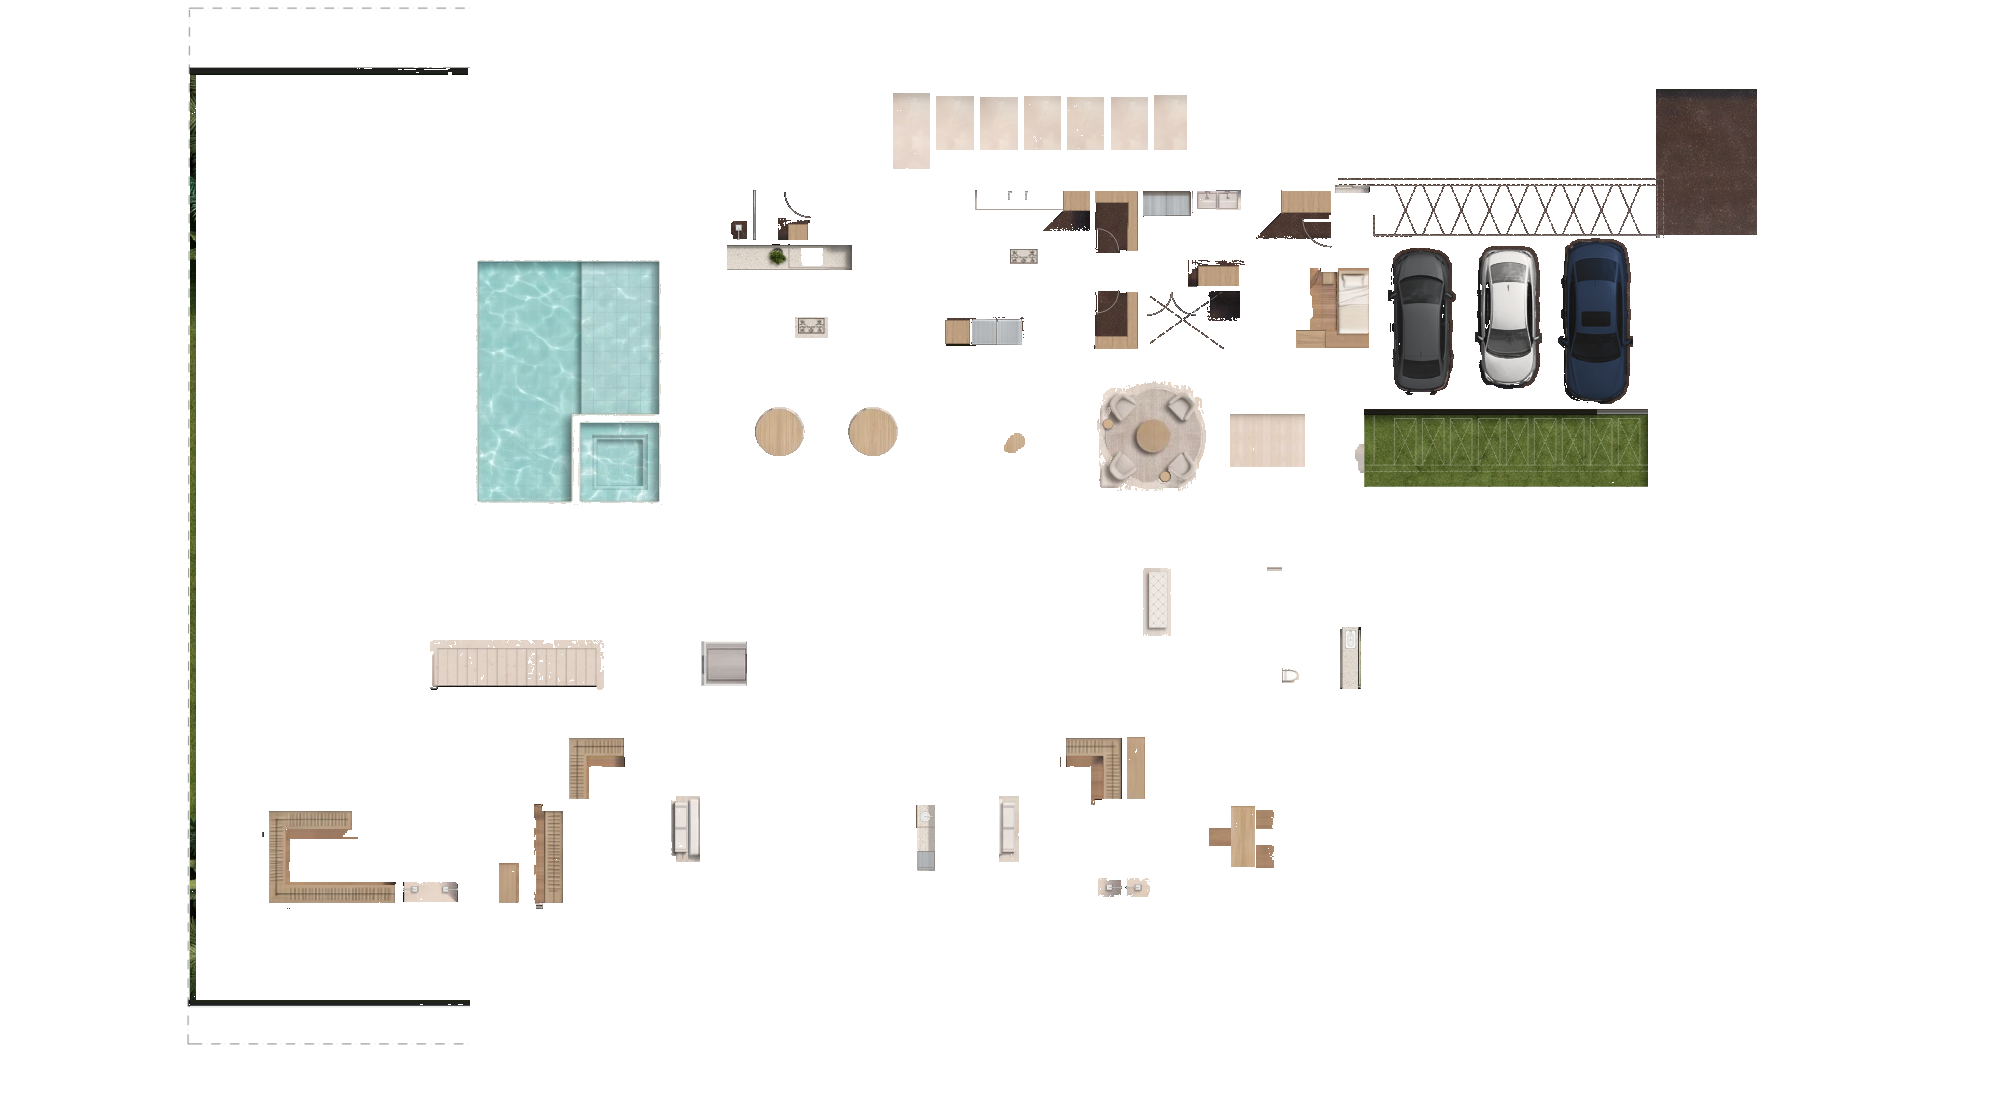
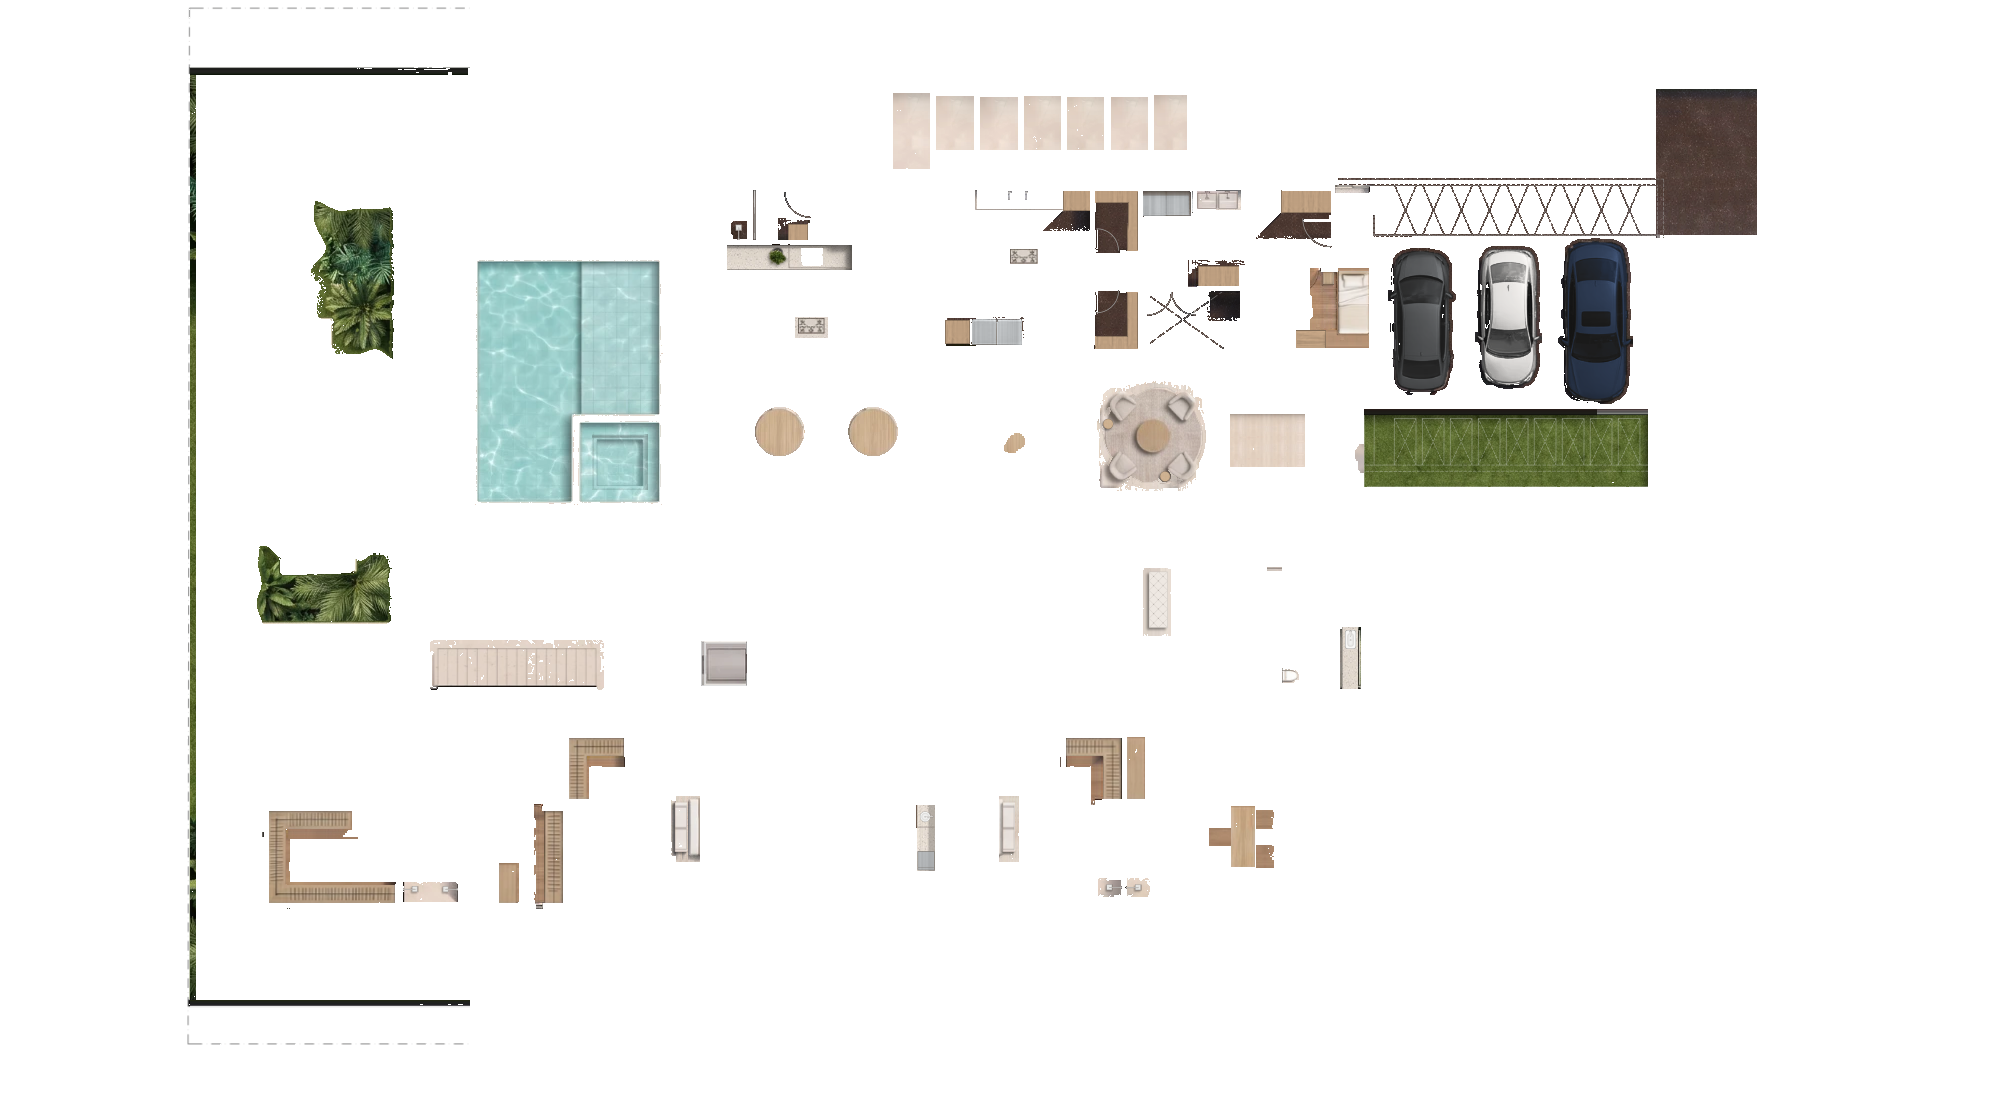
Casa D: paisagismo nos gramados junto à escada da piscina
Claude-Session: https://claude.ai/code/session_01Mm19WX3KoLN1nXMDF5Ay3F

Changed region(s): [[0.155, 0.1828, 0.217, 0.3351], [0.124, 0.4875, 0.217, 0.5789]]

diff --git a/projetos/POE642_CasaA/scripts/retoque_terreo_casad.py b/projetos/POE642_CasaA/scripts/retoque_terreo_casad.py
@@ -180,6 +180,10 @@ Os itens são corrigidos um a um, na ordem pedida pelo usuário.
    volta, e o fundo); o render só tinha o do fundo. Entra o contorno de fora do degrau (4 px para fora
    do fundo, como no PDF), com o perfil de luz das arestas do próprio render (sombra larga em cima e à
    direita, traço fino à esquerda e embaixo), mais suave.
+42. Paisagismo nos gramados junto à escada da piscina (pedido do usuário): dois canteiros feitos das
+   touceiras dos cantos do lote do próprio render, cada um espelhado para a borda densa (a que encostava
+   no limite do lote) ficar junto ao deck. O contorno segue a densidade da folhagem; nos lados em que o
+   trecho corta a touceira, o contorno é ondulado e suave; só a grama é coberta (as pedras ficam).
 
 As coordenadas estão em px do render (2000 x 1116).
 
@@ -716,6 +720,20 @@ SPA = {
     "perfis": {"cima": [0.93, 0.74, 0.65, 0.72], "baixo": [0.88, 0.95], "esquerda": [0.92, 0.88],
                "direita": [0.69, 0.72, 0.76, 0.83, 0.90]},
     "forca": 0.75,
+}
+
+# paisagismo nos gramados junto à escada da piscina (pedido do usuário): canteiros feitos das touceiras
+# dos cantos do lote do próprio render. Cada canteiro é um trecho da touceira, espelhado para a borda
+# densa (a que encostava no limite do lote) ficar junto ao deck; o contorno do canteiro segue a
+# densidade da folhagem (a emenda cai na grama, sem cortar folha) e só cobre a grama (as pedras ficam)
+PAISAGISMO = {
+    "grama_ref": (190, 330, 235, 400),
+    # (fonte x0, y0, x1, y1; espelhar na horizontal; canto de cima à esquerda no destino)
+    # e os lados em que o trecho corta a touceira: lá o contorno é orgânico (ondulado), com borda suave
+    "canteiros": [((197, 140, 285, 300), True, (310, 200), ("cima", "esquerda", "baixo")),
+                  ((197, 918, 339, 1000), True, (256, 542), ("esquerda", "cima"))],
+    "limiar": 2.2, "sigma_densidade": 4.0, "densidade": 0.3,
+    "onda": (9.0, 9.0), "suave": 5.0, "semente": 7,
 }
 
 
@@ -2363,6 +2381,43 @@ def degrau_spa(out):
     return out
 
 
+def paisagismo(out, orig):
+    q = PAISAGISMO
+    fonte = out.copy()
+    lab = cv2.cvtColor(fonte, cv2.COLOR_BGR2LAB).astype(np.float32)
+    gx0, gy0, gx1, gy1 = q["grama_ref"]
+    g = lab[gy0:gy1, gx0:gx1].reshape(-1, 3)
+    mu, sd = g.mean(axis=0), np.maximum(g.std(axis=0), 1)
+    z = np.sqrt((((cv2.GaussianBlur(lab, (0, 0), 1.0) - mu) / sd) ** 2).sum(axis=2))
+    grama = cv2.GaussianBlur((z < 3.5).astype(np.float32), (0, 0), 0.6)
+    rng = np.random.default_rng(q["semente"])
+    for (x0, y0, x1, y1), espelhar, (dx, dy), cortes in q["canteiros"]:
+        spr = fonte[y0:y1, x0:x1].astype(np.float32)
+        dens = cv2.GaussianBlur((z[y0:y1, x0:x1] > q["limiar"]).astype(np.float32), (0, 0), q["sigma_densidade"])
+        m = (dens > q["densidade"]).astype(np.uint8)
+        cont, _ = cv2.findContours(m, cv2.RETR_EXTERNAL, cv2.CHAIN_APPROX_NONE)
+        m = np.zeros_like(m)
+        cv2.drawContours(m, cont, -1, 1, -1)
+        a = cv2.GaussianBlur(m.astype(np.float32), (0, 0), 1.5)
+        if espelhar:
+            spr, a = spr[:, ::-1], a[:, ::-1]
+        h, w = a.shape
+        amp, esc = q["onda"]
+        for lado in cortes:
+            n = w if lado in ("cima", "baixo") else h
+            onda = cv2.GaussianBlur(rng.normal(0, 1, (1, n + 40)).astype(np.float32), (0, 0), esc)[0, 20:20 + n]
+            onda = amp * (1 + onda / max(float(np.abs(onda).max()), 1e-6))          # 0 .. 2 amp
+            yy, xx = np.mgrid[0:h, 0:w].astype(np.float32)
+            dist = {"cima": yy, "baixo": h - 1 - yy, "esquerda": xx, "direita": w - 1 - xx}[lado]
+            off = onda[None, :] if lado in ("cima", "baixo") else onda[:, None]
+            a = a * np.clip((dist - off) / q["suave"], 0, 1)
+        a = a * grama[dy:dy + h, dx:dx + w]
+        reg = out[dy:dy + h, dx:dx + w].astype(np.float32)
+        out[dy:dy + h, dx:dx + w] = np.clip(reg * (1 - a[..., None]) + spr * a[..., None], 0, 255).astype(np.uint8)
+        print(f"    canteiro em ({dx}, {dy}), {w}x{h} px, da touceira em ({x0}, {y0})")
+    return out
+
+
 def main():
     ap = argparse.ArgumentParser(description=__doc__, formatter_class=argparse.RawDescriptionHelpFormatter)
     ap.add_argument("render", type=Path)
@@ -2452,6 +2507,8 @@ def main():
     out = torneiras_cozinha(out)
     print("[35] degrau interno do spa")
     out = degrau_spa(out)
+    print("[36] paisagismo junto à escada da piscina")
+    out = paisagismo(out, orig)
 
     args.saida.mkdir(parents=True, exist_ok=True)
     cv2.imwrite(str(args.saida / f"{args.nome}.png"), out)

diff --git a/projetos/POE642_CasaA/scripts/README.md b/projetos/POE642_CasaA/scripts/README.md
@@ -270,6 +270,7 @@ Mesmo método da Casa C (render retocado sem IA, item por item, na ordem pedida 
 - **Pisantes:** `pisantes` (quilting do deck limpo, no tom da pedra e com a luz desfocada dela).
 - **Torneiras da cozinha:** `torneiras_cozinha` (canopla, alavanca, bica e válvula em 8x).
 - **Degrau do spa:** `degrau_spa` (fator por lado medido na aresta do fundo, aplicado ao contorno de fora).
+- **Paisagismo:** `paisagismo` (trecho da touceira espelhado, máscara pela densidade da folhagem, contorno ondulado nos lados cortados, só sobre a grama).
 
 ```bash
 python retoque_terreo_casad.py ../../POE642_CasaD/renders/POE642_CasaD_PH_Terreo_v1_render.webp --saida ../../POE642_CasaD/renders --nome POE642_CasaD_PH_Terreo_v1_retocado

diff --git a/projetos/POE642_HANDOFF_SESSAO_LOCAL.md b/projetos/POE642_HANDOFF_SESSAO_LOCAL.md
@@ -407,3 +407,4 @@ python texturizar_base.py Subsolo ../../POE642_CasaC/bases/POE642_CasaC_BASE_Sub
   39. pisantes de cima com o Bege Bahia do deck (veios suaves); a fileira junto à garagem já tinha veios.
   40. torneiras do PDF nas duas cubas da cozinha (cromado, no eixo de cada cuba).
   41. spa com o segundo contorno interno (o degrau em volta do fundo), no perfil das arestas do render.
+  42. paisagismo: canteiros com as touceiras do render nos dois gramados junto à escada da piscina (acima e abaixo dela).
